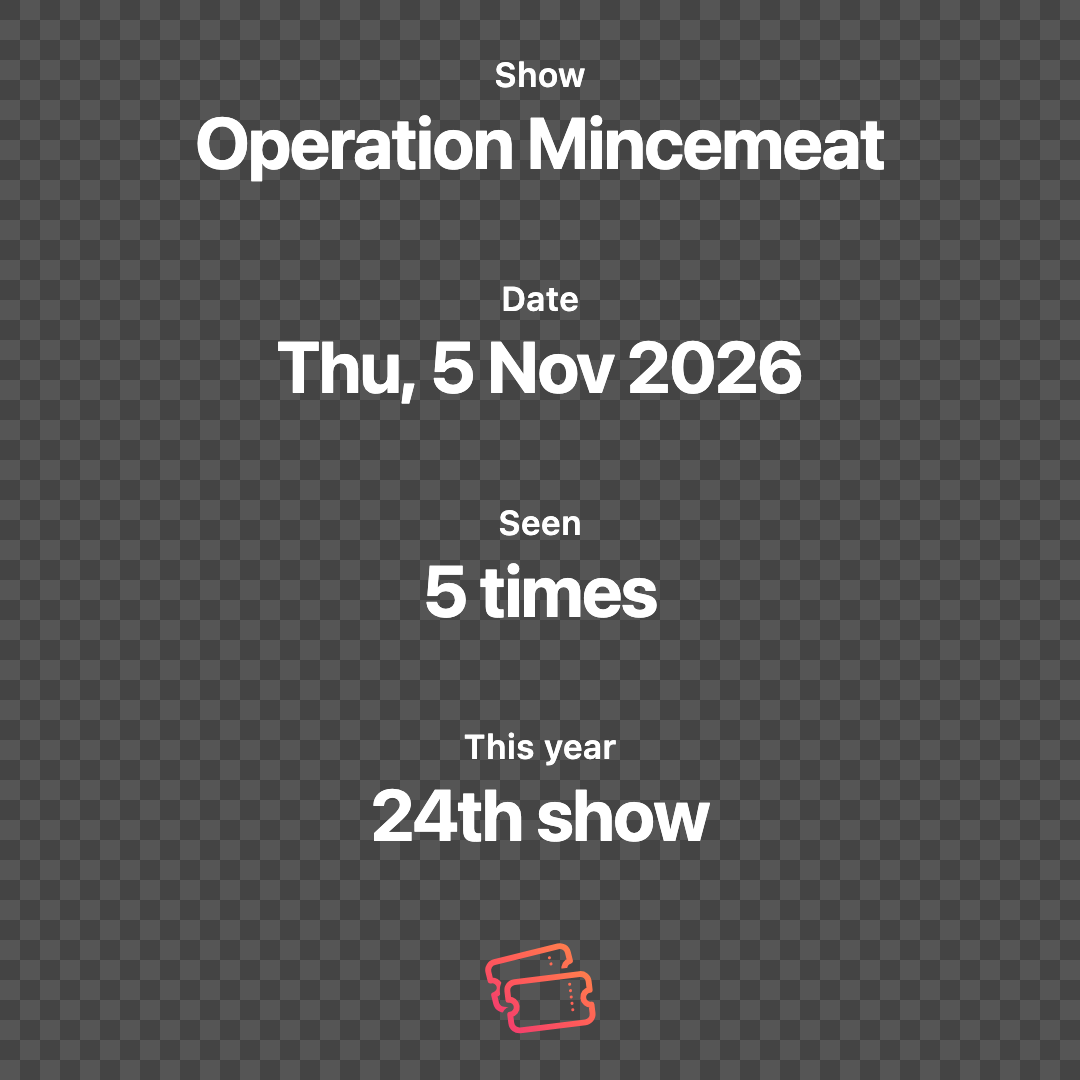
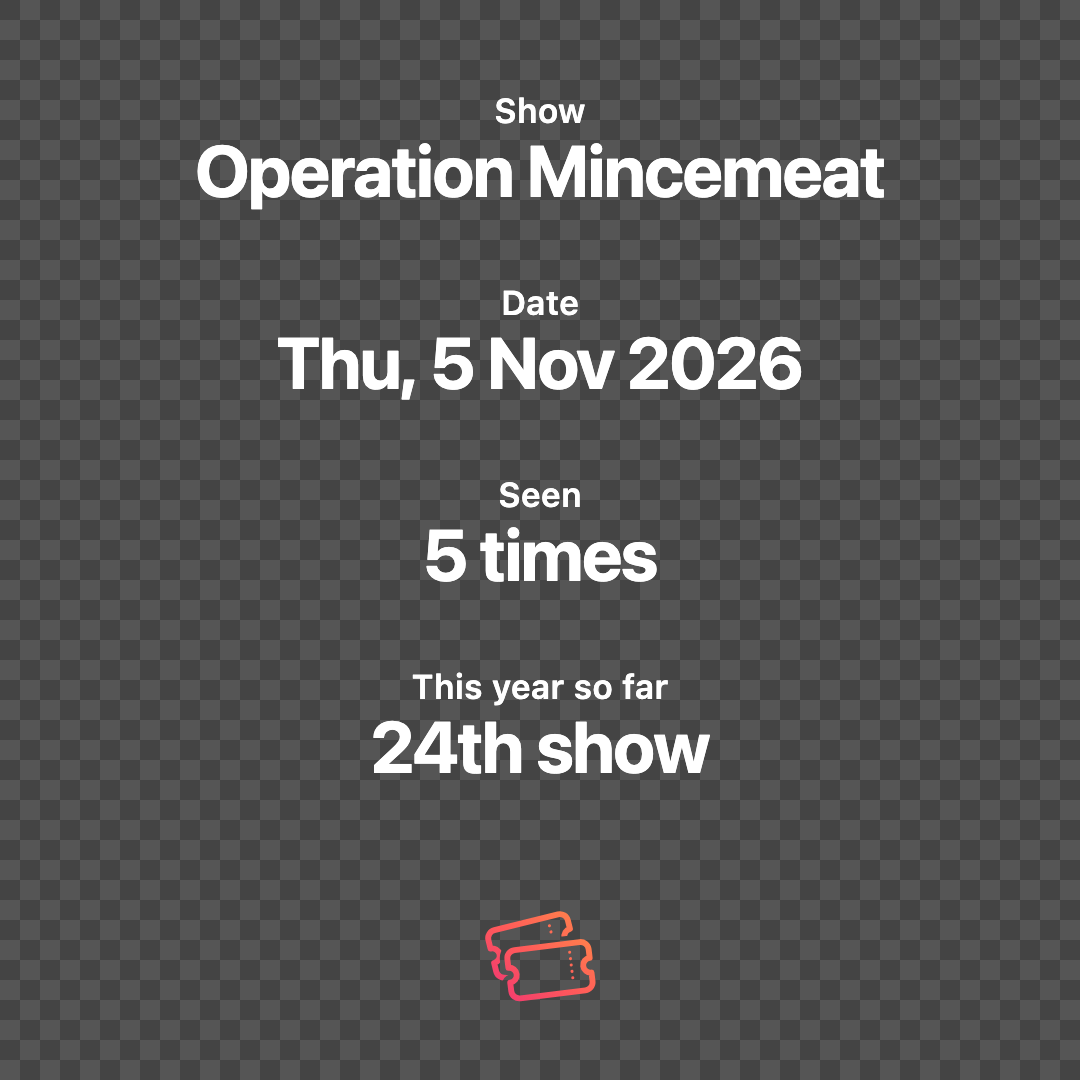
Tighten overlay spacing and simplify ticket information

diff --git a/apps/ios/Stubbed/Screens/Share/EntryCard.swift b/apps/ios/Stubbed/Screens/Share/EntryCard.swift
@@ -143,27 +143,27 @@ private struct ShowOverlayCard: View {
 
   var body: some View {
     ZStack(alignment: .top) {
-      VStack(spacing: 16) {
+      VStack(spacing: 8) {
         section("Show", value: data.title, title: true)
         section("Date", value: today.formatted(.dateTime.weekday(.abbreviated).day().month(.abbreviated).year().locale(Locale(identifier: "en_GB"))))
         section("Seen", value: "\(data.timesSeen) \(data.timesSeen == 1 ? "time" : "times")")
-        section(data.year == Calendar.current.component(.year, from: today) ? "This year" : String(data.year),
+        section(data.year == Calendar.current.component(.year, from: today) ? "This year so far" : "\(data.year) so far",
           value: "\(ordinal(data.showOfYear)) show")
-      }.padding(.top, 30)
+      }.padding(.top, 48)
       Image("BrandMarkOutline").renderingMode(.original).resizable().scaledToFit()
-        .frame(width: 58, height: 58 * 673 / 816).padding(.top, 470)
+        .frame(width: 58, height: 58 * 673 / 816).padding(.top, 454)
     }
     .foregroundStyle(ink)
     .frame(width: 540, height: 540, alignment: .top)
   }
 
   private func section(_ label: String, value: String, title: Bool = false) -> some View {
-    VStack(spacing: 6) {
+    VStack(spacing: 2) {
       Text(label).font(.system(size: 17, weight: .semibold))
       Text(value).font(.system(size: 36, weight: .bold)).tracking(-0.5)
         .lineLimit(title ? 2 : 1).minimumScaleFactor(0.72)
-        .multilineTextAlignment(.center)
-    }.frame(width: 400, height: 96, alignment: .top)
+        .multilineTextAlignment(.center).frame(height: 64, alignment: .top)
+    }.frame(width: 400, height: 88, alignment: .top)
   }
 }
 
@@ -177,23 +177,18 @@ private struct TicketOverlayCard: View {
       ZStack(alignment: .topLeading) {
         Image("ShareTicketOutline").renderingMode(.template).resizable()
           .frame(width: 480, height: 480 * 388 / 648)
-        VStack(alignment: .leading, spacing: 6) {
-          Text("Show").font(.system(size: 14, weight: .semibold))
+        VStack(alignment: .leading, spacing: 14) {
           Text(data.title).font(.system(size: 30, weight: .bold)).tracking(-0.4)
             .lineLimit(2).minimumScaleFactor(0.73)
             .fixedSize(horizontal: false, vertical: true)
-        }.frame(width: 292, alignment: .leading).offset(x: 56, y: 40)
-        stat("Seen", value: "\(data.timesSeen) \(data.timesSeen == 1 ? "time" : "times")", width: 124)
+          Text(today, format: .dateTime.weekday(.abbreviated).day().month(.abbreviated).year())
+            .font(.system(size: 18, weight: .medium))
+        }.frame(width: 368, alignment: .leading).offset(x: 56, y: 44)
+        stat("Seen", value: "\(data.timesSeen) \(data.timesSeen == 1 ? "time" : "times")", width: 148)
           .offset(x: 56, y: 194)
-        stat(data.year == Calendar.current.component(.year, from: today) ? "This year" : String(data.year),
-          value: "\(ordinal(data.showOfYear)) show", width: 136).offset(x: 214, y: 194)
-        VStack(spacing: 10) {
-          Text("Date").font(.system(size: 14, weight: .semibold)).padding(.bottom, 4)
-          Text(today, format: .dateTime.weekday(.abbreviated)).font(.system(size: 16, weight: .medium))
-          Text(today, format: .dateTime.day().month(.abbreviated))
-            .font(.system(size: 21, weight: .bold)).tracking(-0.3).lineLimit(1).minimumScaleFactor(0.65)
-          Text(today, format: .dateTime.year()).font(.system(size: 16, weight: .medium))
-        }.frame(width: 82).offset(x: 369, y: 46)
+        stat(data.year == Calendar.current.component(.year, from: today) ? "This year so far" : "\(data.year) so far",
+          value: "\(ordinal(data.showOfYear)) show", width: 168).offset(x: 246, y: 194)
+
       }
       .foregroundStyle(ink)
       .frame(width: 480, height: 480 * 388 / 648)

diff --git a/apps/web/src/lib/share-card.ts b/apps/web/src/lib/share-card.ts
@@ -263,23 +263,23 @@ function drawShowOverlay(ctx: Ctx, data: CardData, color: string, mark: HTMLImag
     { label: "Show", value: data.title },
     { label: "Date", value: shareDate(today) },
     { label: "Seen", value: `${data.timesSeen} ${data.timesSeen === 1 ? "time" : "times"}` },
-    { label: data.year === today.getFullYear() ? "This year" : String(data.year), value: `${ordinal(data.showOfYear)} show` },
+    { label: data.year === today.getFullYear() ? "This year so far" : `${data.year} so far`, value: `${ordinal(data.showOfYear)} show` },
   ];
   ctx.fillStyle = color; ctx.textAlign = "center"; ctx.textBaseline = "top";
   sections.forEach((section, index) => {
-    const top = 30 + index * 112;
+    const top = 48 + index * 96;
     setFont(ctx, 600, 17, TEXT, 0); ctx.fillText(section.label, 270, top);
     let lines: string[] = [];
     for (let size = 36; size >= 26; size -= 2) {
       setFont(ctx, 700, size, DISPLAY, -0.5);
       lines = wrap(ctx, section.value, 400);
-      if (lines.length <= (index === 0 ? 2 : 1)) break;
+      if (lines.length <= 1) break;
     }
     if (lines.length > 2) lines = [lines[0], lines.slice(1).join(" ")];
-    lines.slice(0, index === 0 ? 2 : 1).forEach((line, i) => ctx.fillText(fit(ctx, line, 400), 270, top + 26 + i * 40));
+    lines.slice(0, index === 0 ? 2 : 1).forEach((line, i) => ctx.fillText(fit(ctx, line, 400), 270, top + 22 + i * 30));
   });
   // Use the design system's original gradient Outline mark, with no wordmark.
-  if (mark) ctx.drawImage(mark, 241, 470, 58, 58 * 673 / 816);
+  if (mark) ctx.drawImage(mark, 241, 454, 58, 58 * 673 / 816);
 }
 
 function shareDate(date: Date) {
@@ -311,29 +311,23 @@ function drawTicketOverlay(ctx: Ctx, data: CardData, color: string, ticket: HTML
     }
   }
   ctx.fillStyle = color; ctx.textAlign = "left"; ctx.textBaseline = "top";
-  setFont(ctx, 600, 14, TEXT, 0); ctx.fillText("Show", 56, 40);
   let lines: string[] = [];
   for (let size = 30; size >= 22; size -= 2) {
     setFont(ctx, 700, size, DISPLAY, -0.4);
-    lines = wrap(ctx, data.title, 292);
+    lines = wrap(ctx, data.title, 368);
     if (lines.length <= 2) break;
   }
   if (lines.length > 2) lines = [lines[0], lines.slice(1).join(" ")];
-  lines.forEach((line, i) => ctx.fillText(fit(ctx, line, 292), 56, 66 + i * 35));
+  lines.forEach((line, i) => ctx.fillText(fit(ctx, line, 368), 56, 44 + i * 35));
   const today = new Date();
+  setFont(ctx, 500, 18, TEXT, 0);
+  ctx.fillText(shareDate(today), 56, 44 + lines.length * 35 + 14, 368);
   setFont(ctx, 600, 14, TEXT, 0);
   ctx.fillText("Seen", 56, 194);
-  ctx.fillText(data.year === today.getFullYear() ? "This year" : String(data.year), 214, 194);
+  ctx.fillText(data.year === today.getFullYear() ? "This year so far" : `${data.year} so far`, 246, 194);
   setFont(ctx, 700, 24, DISPLAY, -0.3);
-  ctx.fillText(`${data.timesSeen} ${data.timesSeen === 1 ? "time" : "times"}`, 56, 220, 124);
-  ctx.fillText(`${ordinal(data.showOfYear)} show`, 214, 220, 136);
-  ctx.textAlign = "center";
-  setFont(ctx, 600, 14, TEXT, 0); ctx.fillText("Date", 410, 46);
-  setFont(ctx, 500, 16, TEXT, 0);
-  ctx.fillText(new Intl.DateTimeFormat("en-GB", { weekday: "short" }).format(today), 410, 78);
-  setFont(ctx, 700, 21, DISPLAY, -0.3);
-  ctx.fillText(new Intl.DateTimeFormat("en-GB", { day: "numeric", month: "short" }).format(today), 410, 104, 82);
-  setFont(ctx, 500, 16, TEXT, 0); ctx.fillText(String(today.getFullYear()), 410, 134);
+  ctx.fillText(`${data.timesSeen} ${data.timesSeen === 1 ? "time" : "times"}`, 56, 220, 148);
+  ctx.fillText(`${ordinal(data.showOfYear)} show`, 246, 220, 168);
   ctx.restore();
   drawTicketBrand(ctx, mark);
 }

diff --git a/docs/DECISIONS.md b/docs/DECISIONS.md
@@ -1028,3 +1028,5 @@ Owner couldn't edit all of two landing captions (the editor showed only half of 
 - Refined the plain overlay to four equally spaced sections in this order: Show, Date, Seen, This year, with matching type sizes. It uses only the design system’s gradient Outline mark. The ticket layout places show and counts in the main area and date in the stub; branding moves outside below it, with the original Outline mark and a coral wordmark.
 
 - Removed the ticket perforation dots and reclaimed the width for the title and yearly count. The outside branding stays centred beneath the ticket.
+
+- Tightened the plain overlay’s section spacing and restored “This year so far”. Simplified the ticket to an unlabelled show title followed immediately by the date, reclaiming the stub area and widening the counts.
